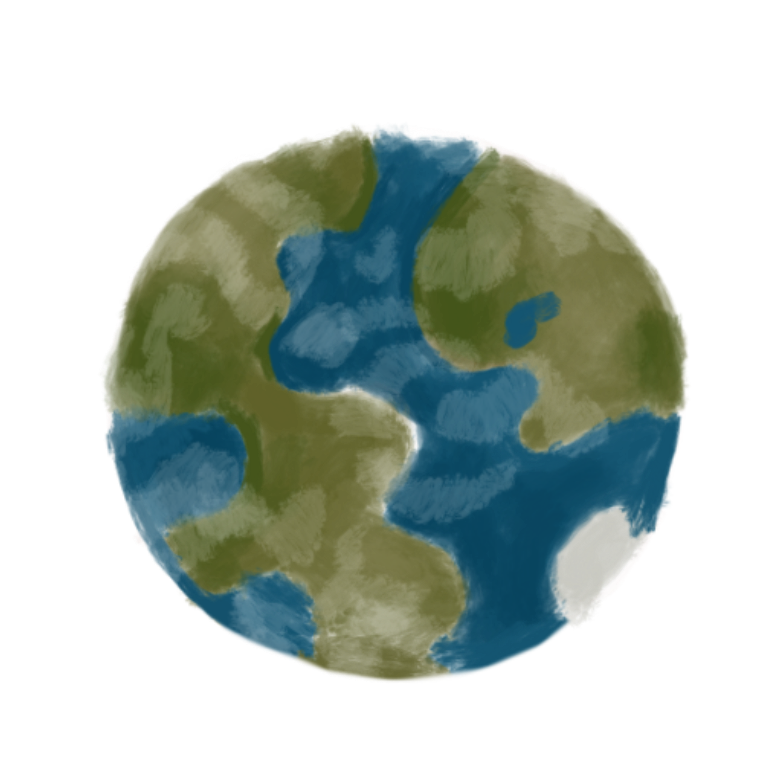
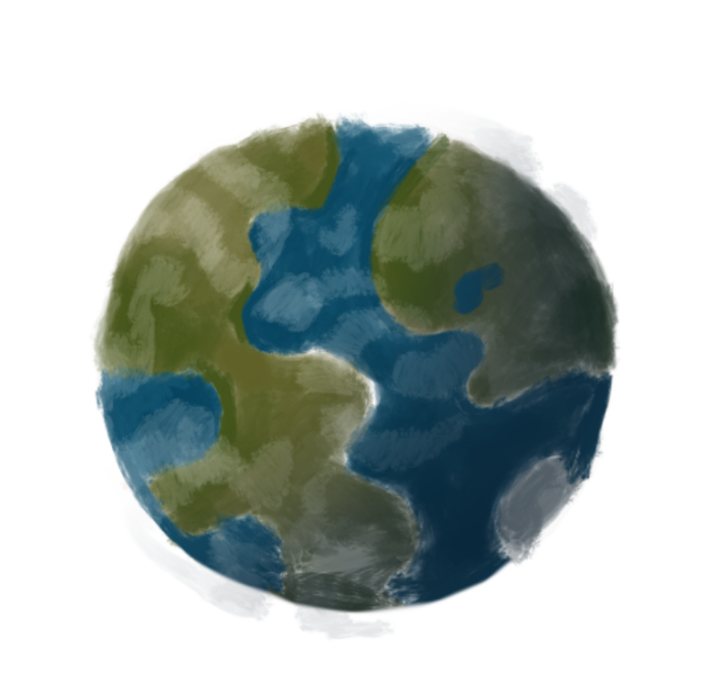
updates to index.html

diff --git a/index.html b/index.html
@@ -316,7 +316,7 @@
         if (moon) {
           moon.addEventListener("click", (e) => {
             e.stopPropagation();
-            window.location.href = "moon.html";
+            window.location.href = "map.html";
           });
         }
 